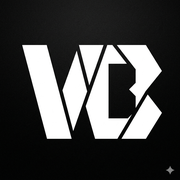
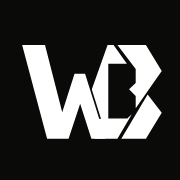
Use the approved WB crossover throughout the site

diff --git a/writing/the-shipyard/index.html b/writing/the-shipyard/index.html
@@ -10,7 +10,8 @@
   <meta property="og:type" content="article">
   <meta property="og:url" content="https://wabbazzar.com/writing/the-shipyard/">
   <meta http-equiv="Cache-Control" content="no-cache, no-store, must-revalidate">
[1 lines of base64/hex data omitted]
+  <link rel="icon" type="image/png" href="/favicon.png?v=wb1">
+    <link rel="icon" type="image/svg+xml" href="/favicon.svg?v=wb1">
   <link rel="stylesheet" href="styles.css?v=3">
   <style>
     /* Back link to the writing series — matches the mode-toggle pill. */

diff --git a/docs/wb-logo-study/index.html b/docs/wb-logo-study/index.html
@@ -12,13 +12,13 @@
 </style></head><body><main>
 <header><div class="eyebrow">Wabbazzar / monogram study 01</div><h1>A W that crosses into the B.</h1><p>Two distinct lower points give the W its rhythm. Its middle stroke passes over the B’s spine, then the letters meet at the lower foot.</p></header>
 <section class="pair" aria-label="Original and revised logo comparison">
-<figure><img class="hero" src="../../icon-512.png" alt="Original angular WB logo with a V-like first letter"><figcaption><h2>Original</h2><p>The detached inner pieces favor a single V-shaped reading.</p></figcaption><div class="sizes" data-sizes="../../icon-512.png"></div></figure>
+<figure><img class="hero" src="original.png" alt="Original angular WB logo with a V-like first letter"><figcaption><h2>Original</h2><p>The detached inner pieces favor a single V-shaped reading.</p></figcaption><div class="sizes" data-sizes="original.png"></div></figure>
 <figure><img id="revised" class="hero" src="wb-crossover.svg" alt="Revised WB logo with the W crossing over the B"><figcaption><h2>W over B</h2><p>A connected central rise and a shared lower foot retain the angular ribbon construction.</p></figcaption><div id="revised-sizes" class="sizes" data-sizes="wb-crossover.svg"></div></figure>
 </section>
 <div class="controls"><label><input id="joined" type="checkbox"> Compare a fully joined junction</label><label><input id="geometry" type="checkbox"> Show W / B construction</label><a id="download" href="wb-crossover.svg" download>Download this SVG</a></div>
 <details><summary>Coordinates and crossover</summary><p>The gold W runs in front of the teal B. The final rising arm belongs to both letters. All points use the original 512 × 512 canvas; the diagram labels the most useful edit handles.</p><div class="technical"><img src="construction.svg" alt="Gold W crossing the teal B on a coordinate grid"><table><thead><tr><th>Feature</th><th>Coordinates</th></tr></thead><tbody><tr><td>First inner valley</td><td><code>177,319</code></td></tr><tr><td>Central crest</td><td><code>212,210 → 242,210</code></td></tr><tr><td>Lower central notch</td><td><code>228,295</code></td></tr><tr><td>W’s second foot</td><td><code>260,395 → 300,395</code></td></tr><tr><td>Shared rising arm</td><td><code>244,302 → 306,128</code></td></tr><tr><td>B counter spine</td><td><code>308,181 → 308,337</code></td></tr><tr><td>Overpass clearance</td><td><code>5 units each side</code></td></tr><tr><td>Joined heel resumes</td><td><code>y = 338</code></td></tr></tbody></table></div></details>
 <div class="downloads"><a href="wb-crossover.svg" download>Crossover SVG</a><a href="wb-joined.svg" download>Joined SVG</a><a href="portavec-trace.svg" download>Raw Portavec trace</a><a href="faithful-trace.svg" download>Clean original trace</a><a href="construction.svg" download>Coordinate diagram</a></div>
-<footer>Local design study · Original image traced through Portavec, then rebuilt as explicit SVG paths · Live site assets are unchanged.</footer>
+<footer>Local design study · Original image traced through Portavec, then rebuilt as explicit SVG paths · Approved crossover design; original preserved for comparison.</footer>
 </main><script>
 const sizes=[16,22,32,48,64];
 for(const row of document.querySelectorAll('[data-sizes]'))for(const size of sizes){const item=document.createElement('span');item.className='sample';const img=document.createElement('img');img.src=row.dataset.sizes;img.width=size;img.height=size;img.alt=`Logo at ${size} pixels`;item.append(img,`${size}px`);row.append(item)}

diff --git a/writing/index.html b/writing/index.html
@@ -14,15 +14,16 @@
     <meta property="og:url" content="https://wabbazzar.com/writing/">
     <meta property="og:title" content="Writing — wabbazzar">
     <meta property="og:description" content="Essays and project deep-dives by Wesley Beckner.">
-    <meta property="og:image" content="https://wabbazzar.github.io/preview.png">
+    <meta property="og:image" content="https://wabbazzar.com/preview.png?v=wb1">
 
     <meta property="twitter:card" content="summary_large_image">
     <meta property="twitter:url" content="https://wabbazzar.com/writing/">
     <meta property="twitter:title" content="Writing — wabbazzar">
-    <meta property="twitter:image" content="https://wabbazzar.github.io/preview.png">
+    <meta property="twitter:image" content="https://wabbazzar.com/preview.png?v=wb1">
 
-    <link rel="icon" type="image/png" href="/favicon.png">
-    <link rel="apple-touch-icon" href="/apple-touch-icon.png">
+    <link rel="icon" type="image/png" href="/favicon.png?v=wb1">
+    <link rel="icon" type="image/svg+xml" href="/favicon.svg?v=wb1">
+    <link rel="apple-touch-icon" href="/apple-touch-icon.png?v=wb1">
     <link rel="manifest" href="/manifest.webmanifest">
     <meta name="theme-color" content="#0a0a09">
     <meta name="apple-mobile-web-app-capable" content="yes">
@@ -102,7 +103,7 @@
     <main>
         <header class="site-header">
             <a class="brand" href="/" aria-label="wabbazzar home">
-                <img class="brand-mark" src="/favicon.png" alt="" width="22" height="22" loading="eager">
+                <img class="brand-mark" src="/assets/brand/wb.svg?v=wb1" alt="" width="22" height="22" loading="eager">
                 <span>wabbazzar</span>
             </a>
             <nav class="top-nav">

diff --git a/index.html b/index.html
@@ -13,15 +13,16 @@
     <meta property="og:type" content="website">
     <meta property="og:url" content="https://wabbazzar.github.io/">
     <meta property="og:title" content="wabbazzar">
-    <meta property="og:image" content="https://wabbazzar.github.io/preview.png">
+    <meta property="og:image" content="https://wabbazzar.com/preview.png?v=wb1">
 
     <meta property="twitter:card" content="summary_large_image">
     <meta property="twitter:url" content="https://wabbazzar.github.io/">
     <meta property="twitter:title" content="wabbazzar">
-    <meta property="twitter:image" content="https://wabbazzar.github.io/preview.png">
+    <meta property="twitter:image" content="https://wabbazzar.com/preview.png?v=wb1">
 
-    <link rel="icon" type="image/png" href="/favicon.png">
-    <link rel="apple-touch-icon" href="/apple-touch-icon.png">
+    <link rel="icon" type="image/png" href="/favicon.png?v=wb1">
+    <link rel="icon" type="image/svg+xml" href="/favicon.svg?v=wb1">
+    <link rel="apple-touch-icon" href="/apple-touch-icon.png?v=wb1">
     <link rel="manifest" href="/manifest.webmanifest">
     <meta name="theme-color" content="#0a0a09">
     <meta name="apple-mobile-web-app-capable" content="yes">
@@ -38,7 +39,7 @@
     <main>
         <header class="site-header">
             <a class="brand" href="https://github.com/wabbazzar" target="_blank" rel="noopener">
-                <img class="brand-mark" src="/favicon.png" alt="" width="22" height="22" loading="eager">
+                <img class="brand-mark" src="/assets/brand/wb.svg?v=wb1" alt="" width="22" height="22" loading="eager">
                 <span>wabbazzar</span>
             </a>
             <nav class="top-nav">

diff --git a/tools/build-wb-study.ts b/tools/build-wb-study.ts
@@ -6,7 +6,7 @@ const require = createRequire(new URL('../../portavec/package.json', import.meta
 const { PNG } = require('pngjs');
 const out = new URL('../docs/wb-logo-study/', import.meta.url);
 mkdirSync(out, { recursive: true });
-const source = PNG.sync.read(readFileSync(new URL('../icon-512.png', import.meta.url)));
+const source = PNG.sync.read(readFileSync(new URL('../docs/wb-logo-study/original.png', import.meta.url)));
 const data = new Uint8ClampedArray(source.data);
 // Invert: Portavec treats dark pixels as foreground. Threshold 55 excludes
 // the original's dark texture and gray corner sparkle.
@@ -63,7 +63,7 @@ writeFileSync(new URL('construction.svg', out), svg(`<rect width="512" height="5
 // Omit timing so repeated runs produce stable artifacts.
 const { processingTimeMs, stages, ...geometry } = result.metrics;
 writeFileSync(new URL('trace-metrics.json', out), JSON.stringify({
-  source: '../../icon-512.png', portavecRevision: '0b91cc7', inverted: true,
+  source: 'original.png', portavecRevision: '0b91cc7', inverted: true,
   options, geometry, contours: result.debug?.contours.contours.map(c => ({ points: c.points, isHole: c.isHole })),
 }, null, 2) + '\n');
 console.log(JSON.stringify({ output: out.pathname, geometry }));

diff --git a/men-dont-talk/index.html b/men-dont-talk/index.html
@@ -22,8 +22,9 @@
     <meta name="twitter:image" content="https://wabbazzar.com/men-dont-talk/previews/show.png?v=20260824-2">
 
     <link rel="alternate" type="application/rss+xml" title="Men Don't Talk" href="/men-dont-talk/feed.xml">
-    <link rel="icon" type="image/png" href="/favicon.png">
-    <link rel="apple-touch-icon" href="/apple-touch-icon.png">
+    <link rel="icon" type="image/png" href="/favicon.png?v=wb1">
+    <link rel="icon" type="image/svg+xml" href="/favicon.svg?v=wb1">
+    <link rel="apple-touch-icon" href="/apple-touch-icon.png?v=wb1">
     <link rel="stylesheet" href="/styles.css">
     <link rel="stylesheet" href="/men-dont-talk/styles.css">
     <link rel="preconnect" href="https://fonts.googleapis.com">
@@ -34,7 +35,7 @@
     <main>
         <header class="site-header">
             <a class="brand" href="/" aria-label="wabbazzar home">
-                <img class="brand-mark" src="/favicon.png" alt="" width="22" height="22">
+                <img class="brand-mark" src="/assets/brand/wb.svg?v=wb1" alt="" width="22" height="22">
                 <span>wabbazzar</span>
             </a>
             <nav class="top-nav" aria-label="Primary">

diff --git a/service-worker.js b/service-worker.js
@@ -11,7 +11,7 @@
 //
 // Bump VERSION to invalidate old caches on next activation.
 
-const VERSION = 'v30';
+const VERSION = 'v31';
 const CACHE_STATIC = `wz-static-${VERSION}`;
 const CACHE_RUNTIME = `wz-runtime-${VERSION}`;
 
@@ -36,6 +36,16 @@ const PRECACHE_URLS = [
     '/apple-touch-icon.png',
     '/icon-192.png',
     '/icon-512.png',
+    '/favicon.ico',
+    '/favicon.svg?v=wb1',
+    '/favicon.png?v=wb1',
+    '/assets/brand/wb.svg?v=wb1',
+    '/apple-touch-icon.png?v=wb1',
+    '/icon-192.png?v=wb1',
+    '/icon-512.png?v=wb1',
+    '/icon-maskable-192.png?v=wb1',
+    '/icon-maskable-512.png?v=wb1',
+    '/assets/icons/wabbazzar.png',
     '/manifest.webmanifest',
     // All tile icons above the fold in the work index (truffletopia's is CSS-drawn).
     '/assets/icons/bopthere.png',

diff --git a/writing/journal-club/index.html b/writing/journal-club/index.html
@@ -10,7 +10,8 @@
   <meta property="og:type" content="article">
   <meta property="og:url" content="https://wabbazzar.com/writing/journal-club/">
   <meta http-equiv="Cache-Control" content="no-cache, no-store, must-revalidate">
-  <link rel="icon" type="image/png" href="/favicon.png">
+  <link rel="icon" type="image/png" href="/favicon.png?v=wb1">
+    <link rel="icon" type="image/svg+xml" href="/favicon.svg?v=wb1">
   <link rel="stylesheet" href="styles.css?v=13">
   <script>try{if(localStorage.getItem('blog-theme')==='light')document.documentElement.classList.add('light');}catch(e){}</script>
 </head>

diff --git a/receipts/gallery/index.html b/receipts/gallery/index.html
@@ -7,8 +7,9 @@
     <meta name="robots" content="noindex">
     <title>receipts · art gallery</title>
 
-    <link rel="icon" type="image/png" href="/favicon.png">
-    <link rel="apple-touch-icon" href="/apple-touch-icon.png">
+    <link rel="icon" type="image/png" href="/favicon.png?v=wb1">
+    <link rel="icon" type="image/svg+xml" href="/favicon.svg?v=wb1">
+    <link rel="apple-touch-icon" href="/apple-touch-icon.png?v=wb1">
     <meta name="theme-color" content="#0a0a09">
 
     <link rel="stylesheet" href="../styles.css">

diff --git a/receipts/index.html b/receipts/index.html
@@ -7,8 +7,9 @@
     <meta name="robots" content="noindex">
     <title>receipts</title>
 
-    <link rel="icon" type="image/png" href="/favicon.png">
-    <link rel="apple-touch-icon" href="/apple-touch-icon.png">
+    <link rel="icon" type="image/png" href="/favicon.png?v=wb1">
+    <link rel="icon" type="image/svg+xml" href="/favicon.svg?v=wb1">
+    <link rel="apple-touch-icon" href="/apple-touch-icon.png?v=wb1">
     <meta name="theme-color" content="#0a0a09">
 
     <link rel="stylesheet" href="styles.css">

diff --git a/men-dont-talk/episode/02-camille-ritchie/index.html b/men-dont-talk/episode/02-camille-ritchie/index.html
@@ -25,6 +25,8 @@
         body{display:grid;place-items:center}
         a{color:#b9adff}
     </style>
+    <link rel="icon" type="image/png" href="/favicon.png?v=wb1">
+    <link rel="icon" type="image/svg+xml" href="/favicon.svg?v=wb1">
 </head>
 <body><p><a href="/men-dont-talk/#episode-02-camille-ritchie">Open Camille Ritchie's episode</a></p></body>
 </html>

diff --git a/men-dont-talk/episode/05-camille-richie/index.html b/men-dont-talk/episode/05-camille-richie/index.html
@@ -25,6 +25,8 @@
         body{display:grid;place-items:center}
         a{color:#b9adff}
     </style>
+    <link rel="icon" type="image/png" href="/favicon.png?v=wb1">
+    <link rel="icon" type="image/svg+xml" href="/favicon.svg?v=wb1">
 </head>
 <body><p><a href="/men-dont-talk/#episode-02-camille-ritchie">Open Camille Ritchie's episode</a></p></body>
 </html>
